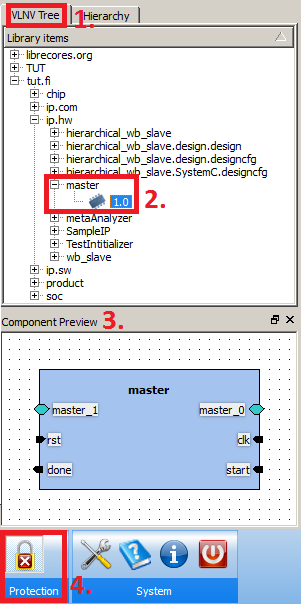
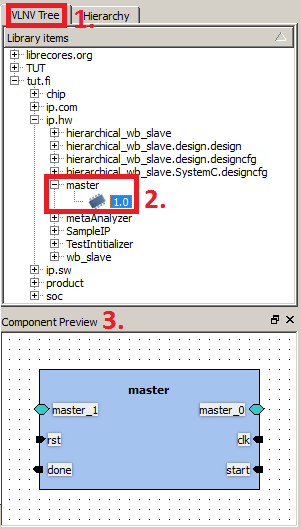
[PERFECTIVE] Minor clarifications in the manual.

diff --git a/Help/gettingStarted/creatingDocuments.html b/Help/gettingStarted/creatingDocuments.html
@@ -12,15 +12,15 @@
 <p>A new document is required for new IP as well as for IP lacking IP-XACT packaging.</p>
 <ol>
 <li>Click the new button on the top ribbon.</li>
-<li>Select a document type, see more details in their corresponding sections in the manual:
+<li>Select a document type. Detailed descriptions are in their corresponding sections in the manual:
 <ul>
     <li>Bus Definition determines constraints for bus connections.</li>
     <li>Catalog groups IP-XACT documents.</li>
     <li>HW Component describes a hardware IP with behavioral functionality.</li>
     <li>HW Design describes an IP that instantiates and connects other hardware IPs.</li>
     <li>SW Component is used to group software source files and set their build rules.</li>
-    <li>SW Design describes an IP that instantiates and connects other sofware IPs.</li>
-    <li>Systems are subject to a major overhaul in future and should not be used.</li>
+    <li>SW Design describes an IP that instantiates and connects other software IPs.</li>
+    <li>System describes an IP that instantiates and connects software IPs and maps them to hardware IPs.</li>
     <li>API definition describes external functions provided by software components.</li>
     <li>COM Definition determines constraints for interprocess connections.</li>
 </li>
@@ -41,7 +41,7 @@
 
 <p>The previous step was <a href="accessingDocuments.html">accessing documents.</a><p>
 
-<img alt="AddLibrary" src="../images/CreatingDocument.png">
+<img alt="CreatingDocument" src="../images/CreatingDocument.png">
 
 </body>
 </html>

diff --git a/Help/componenteditor/componenteditor.html b/Help/componenteditor/componenteditor.html
@@ -2,14 +2,14 @@
 <html lang="en">
 <head>
     <meta http-equiv="Content-Type" content="text/html; charset=utf-8">
-    <title>Component Editor</title>
+    <title>Component</title>
     <link href="style.css" rel="stylesheet" type="text/css">
 </head>
 <body>
 
-<h2>Component Editor</h2>
+<h2>Component</h2>
 
-<p>The component editor is used to edit meta data of any component, both flat and hierarchical, hardware and software. Most importantly it describes components external interface, such as ports and parameters, but also internal features, such as remap state and memory maps. On the other hand, many properties are parametrizable, and thus tied to the external interface.</p>
+<p>An IP-XACT component describes data of any component, both flat and hierarchical, hardware and software. Most importantly it describes components external interface, such as ports and parameters, but also internal features, such as remap state and memory maps. On the other hand, many properties are parametrizable, and thus tied to the external interface.</p>
 
 <p>A component may also refer to non-IP-XACT files, such as HDL source files and documentation. Thus components are vital for integration with non-IP-XACT tools and formats.</p>
 

diff --git a/Help/general/shortcuts.html b/Help/general/shortcuts.html
@@ -1,0 +1,45 @@
+<html>
+<head>
+    <link href="style.css" rel="stylesheet" type="text/css">
+</head>
+<body>
+    <h2>Kactus2 shortcuts</h2>
+	<p>
+      Kactus2 uses the following shortcuts.
+    </p>    
+    <table border="1">
+	<tr>
+	  <th>Key sequence</th>
+	  <th>Description</th>
+	</tr>
+	<tr>
+	  <td>F2</td>
+	  <td>Edit item.</td>
+	</tr>
+	<tr>
+	  <td>CTRL + TAB</td>
+	  <td>Move to next tab.</td>
+	</tr>
+	<tr>
+	  <td>CTRL + SHIFT + Tab</td>
+	  <td>Move to previous tab.</td>
+	</tr>
+	<tr>
+	  <td>CTRL + L</td>
+	  <td>Lock/Unlock document.</td>
+	</tr>
+	<tr>
+	  <td>SHIFT + RETURN</td>
+	  <td>Add a row to table.</td>
+	</tr>
+	<tr>
+	  <td>SHIFT + DEL</td>
+	  <td>Remove selected row(s) from table.</td>
+	</tr>
+	<tr>
+	  <td>ALT + Left mouse button</td>
+	  <td>Replace component in design from library.</td>
+	</tr>
+    </table>
+</body>
+</html>

diff --git a/Help/general/workSpace.html b/Help/general/workSpace.html
@@ -36,7 +36,7 @@
 
 <img alt="ComponentVisibilities" src="../images/ComponentVisibilities.png">
 
-<p>You may also customize design editors. For instance, in the example below, there are only widgets pertaining to design configuration.</p>
+<p>You may also customize design editors by dragging and closing widgets. For instance, in the image below, there are only widgets pertaining to design configuration. You may reopen widgets with the visible windows menu, the button in red rectangle in the image.</p>
 
 <img alt="desgConfOnly" src="../images/desgConfOnly.png">
 

diff --git a/Help/gettingStarted/accessingDocuments.html b/Help/gettingStarted/accessingDocuments.html
@@ -21,6 +21,9 @@
 
 <img alt="VLNVtree" src="../images/VLNVtree.png">
 
+<p></p>
+
+<img alt="ProtectionLocation" src="../images/protection-location.png">
 
 </body>
 </html>
